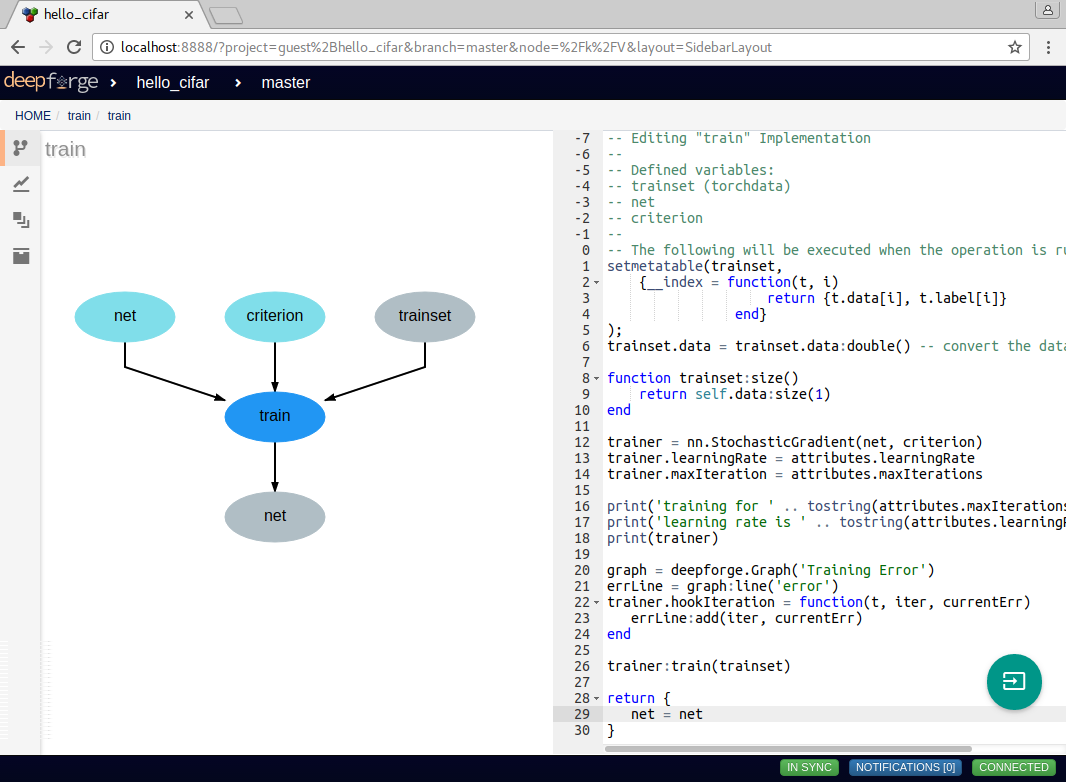
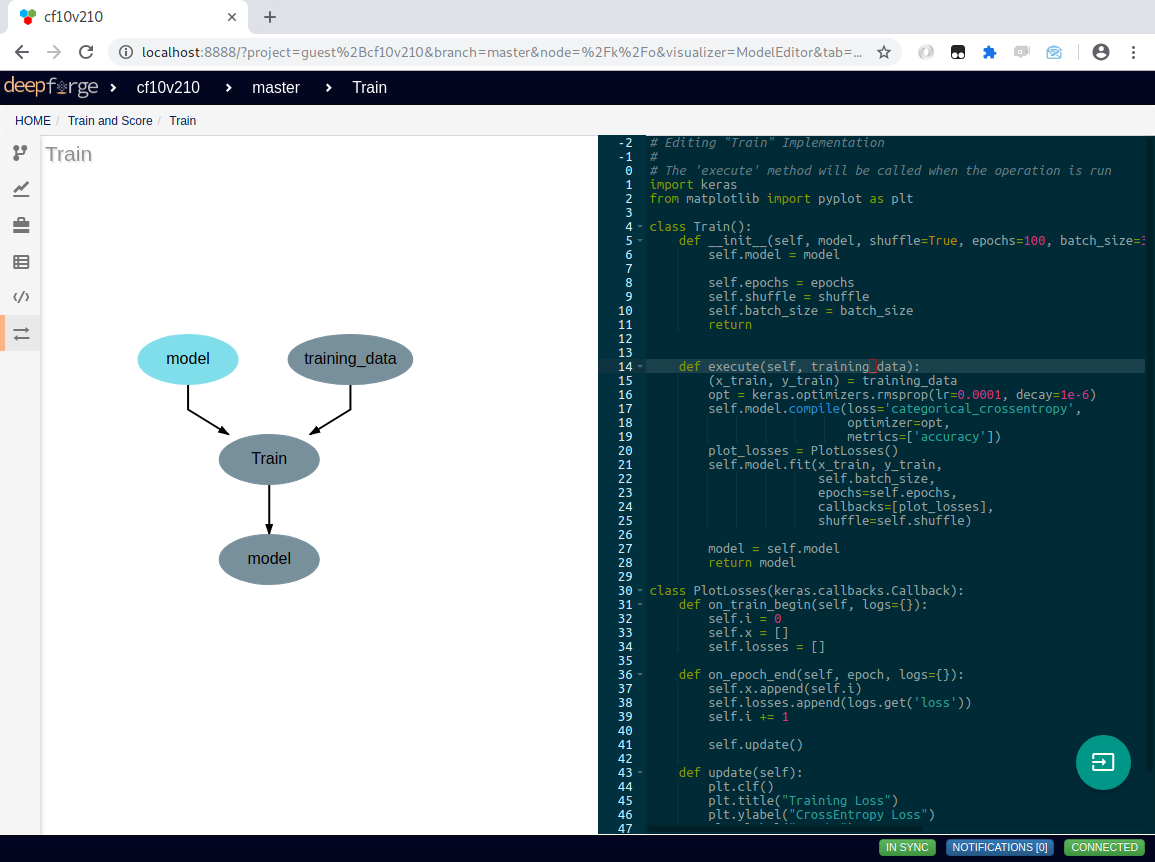
Updated docs for custom operations. Closes #1170 (#1211)

diff --git a/docs/fundamentals/custom_operations.rst b/docs/fundamentals/custom_operations.rst
@@ -5,13 +5,13 @@ In this document we will outline the basics of custom operations including the o
 
 The Basics
 ----------
-Operations are used in pipelines and have named, typed inputs and outputs. When creating a pipeline, if you don't currently find an operation for the given task, you can easily create your own by selecting the `New Operation...` operation from the add operation dialog. This will create a new operation definition and open it in the operation editor. The operation editor has two main parts, the interface editor and the implementation editor.
+Operations are used in pipelines and have named inputs and outputs. When creating a pipeline, if you don't currently find an operation for the given task, you can easily create your own by selecting the `New Operation...` operation from the add operation dialog. This will create a new operation definition and open it in the operation editor. The operation editor has two main parts, the interface editor and the implementation editor.
 
 .. figure:: operation_editor.png
     :align: center
     :scale: 45 %
 
-    Editing the "train" operation provided in the "First Steps" section
+    Editing the "Train" operation from the "CIFAR10" example
 
 The interface editor is provided on the left and presents the interface as a diagram showing the input data and output data as objects flowing into or out of the given operation. Selecting the operation node in the operation interface editor will expand the node and allow the user to add or edit attributes for the given operation. These attributes are exposed when using this operation in a pipeline and can be set at design time - that is, these are set when creating the given pipeline. The interface diagram may also contain light blue nodes flowing into the operation. These nodes represent "references" that the operation accepts as input before running. When using the operation, references will appear alongside the attributes but will allow the user to select from a list of all possible targets when clicked.
 
@@ -19,46 +19,53 @@ The interface editor is provided on the left and presents the interface as a dia
     :align: center
     :scale: 85 %
 
-    The train operation accepts training data, an architecture and criterion and returns a trained model
+    The train operation accepts training data, a model and attributes for shuffling data, setting the batch size, and the number of epochs.
 
-On the right of the operation editor is the implementation editor. The implementation editor is a code editor specially tailored for programming the implementations of operations in DeepForge. This includes some autocomplete support for common globals in this context like the :code:`deepforge` and :code:`torch` globals. It also is synchronized with the interface editor and will provide input to the interface editor about unused variables, etc. These errors will present themselves as error or warning highlights on the data in the interface editor. A section of the implementation is shown below:
+On the right of the operation editor is the implementation editor. The implementation editor is a code editor specially tailored for programming the implementations of operations in DeepForge. It also is synchronized with the interface editor. A section of the implementation is shown below:
 
-.. code:: lua
+.. code:: python
+    import keras
+    from matplotlib import pyplot as plt
 
-	trainer = nn.StochasticGradient(net, criterion)
-	trainer.learningRate = attributes.learningRate
-	trainer.maxIteration = attributes.maxIterations
+    class Train():
+        def __init__(self, model, shuffle=True, epochs=100, batch_size=32):
+            self.model = model
+            
+            self.epochs = epochs
+            self.shuffle = shuffle
+            self.batch_size = batch_size
+            return
 
-	print('training for ' .. tostring(attributes.maxIterations) .. ' iterations (max)')
-	print('learning rate is ' .. tostring(attributes.learningRate))
-	print(trainer)
 
-	-- Adding the error graph
-	graph = deepforge.Graph('Training Error') -- creating graph feedback
-	errLine = graph:line('error')
-	trainer.hookIteration = function(t, iter, currentErr)
-	   errLine:add(iter, currentErr) -- reporting the current error (will update in real time in DeepForge)
-	end
+        def execute(self, training_data):
+            (x_train, y_train) = training_data
+            opt = keras.optimizers.rmsprop(lr=0.0001, decay=1e-6)
+            self.model.compile(loss='categorical_crossentropy',
+                               optimizer=opt,
+                               metrics=['accuracy'])
+            plot_losses = PlotLosses()
+            self.model.fit(x_train, y_train,
+                           self.batch_size,
+                           epochs=self.epochs,
+                           callbacks=[plot_losses],
+                           shuffle=self.shuffle)
+            
+            model = self.model
+            return model
 
-	trainer:train(trainset)
+The "Train" operation uses capabilities from the :code:`keras` package to train the neural network. This operation sets all the parameters using values provided to the operation as either attributes or references. In the implementation, attributes are provided as arguments to the constructor making the user defined attributes accessible from within the implementation. References are treated similarly to operation inputs and are also arguments to the constructor. This can be seen with the :code:`model` constructor argument. Finally, operations return their outputs in the :code:`execute` method; in this example, it returns a single output named :code:`model`, that is, the trained neural network.
 
-	return {
-	   net = net
-	}
-
-The "train" operation uses the :code:`StochasticGradient` functionality from the :code:`nn` package to perform stochastic gradient descent. This operation sets all the parameters using values provided to the operation as either attributes or references. In the implementation, attributes are provided by the :code:`attributes` variable and provides access to the user defined attributes from within the implementation. References are treated similarly to operation inputs and are defined in variables of the same name. This can be seen with the :code:`net` and :code:`criterion` variables in the first line. Finally, operations return a table of their named outputs; in this example, it returns a single output named :code:`net`, that is, the trained neural network.
-
-After defining the interface and implementation, we can now use the "train" operation in our pipelines! An example is shown below.
+After defining the interface and implementation, we can now use the "Train" operation in our pipelines! An example is shown below.
 
 .. figure:: train_operation.png
     :align: center
     :scale: 85 %
 
-    Using the custom "train" operation in a pipeline
+    Using the "Train" operation in a pipeline
 
 Operation feedback
 ------------------
-Operations in DeepForge can generate metadata about its execution. This metadata is generated during the execution and provided back to the user in real-time. An example of this includes providing real-time plotting feedback of the loss function of a model while training. When implementing an operation in DeepForge, this metadata can be created using the :code:`deepforge` global.
+Operations in DeepForge can generate metadata about its execution. This metadata is generated during the execution and provided back to the user in real-time. An example of this includes providing real-time plotting feedback. When implementing an operation in DeepForge, this metadata can be created using the :code:`matplotlib` plotting capabilities.
 
 .. figure:: graph_example.png
     :align: center
